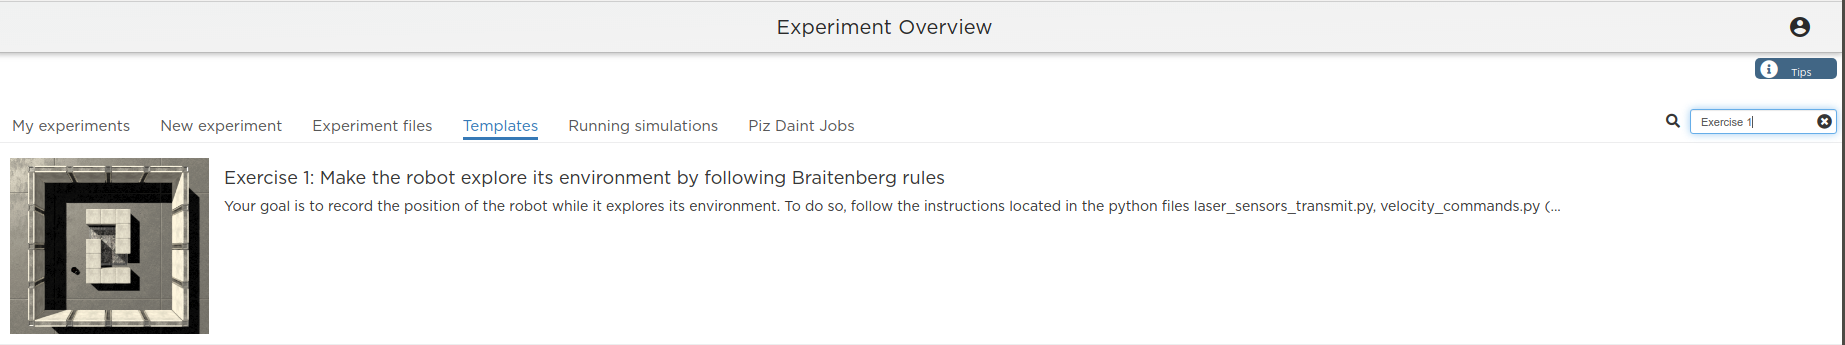
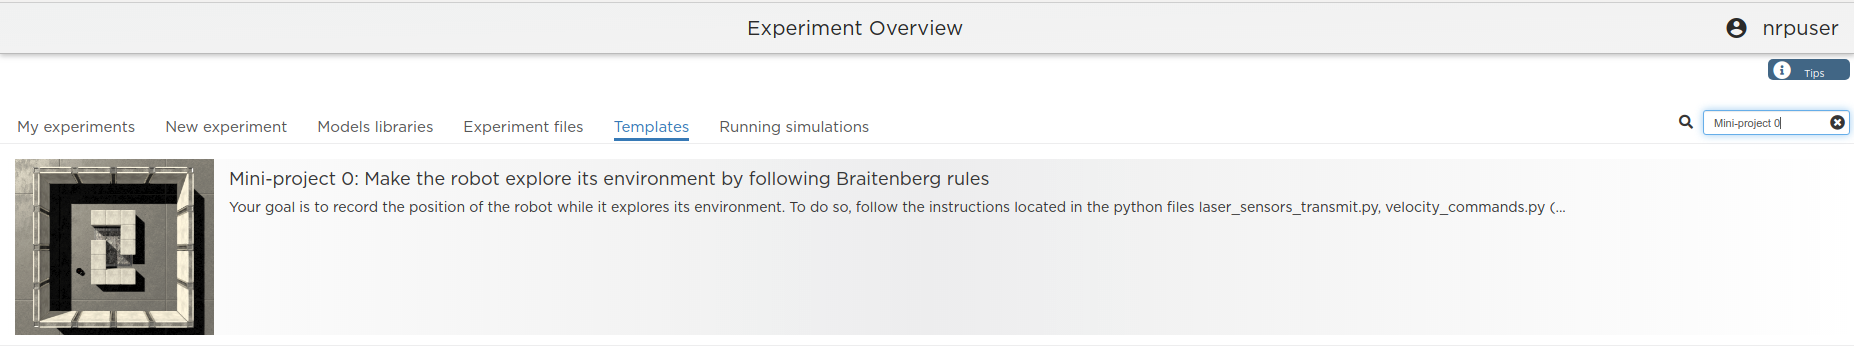
New screenshots and replacements Exercise 1 --> Miniproject 0

diff --git a/Experiments/Miniproject0/velocity_commands.py b/Experiments/Miniproject0/velocity_commands.py
@@ -9,21 +9,21 @@ Transform actor neurons activity into velocity commands
 @nrp.Neuron2Robot(Topic("/robot/cmd_vel", geometry_msgs.msg.Twist))
 def velocity_commands(t, right_actor, left_actor):
     # In abscence of activity, the vehicle is moving forward (magnitude lin_max)
-    lin_max = 0. ###_TO_DO_###
-    # factor for the transformation from actor's voltage to linear translation component
-    lin_factor = 0. ###_TO_DO_###
-    # linear translation component obtained by substrackting actors voltage
-    x_lin = max(0, lin_max - lin_factor*(right_actor.voltage + left_actor.voltage))
-    # factor for the transformation from actor's voltage to angular rotation component
-    ang_factor = 0. ###_TO_DO_###
-    # angular rotation component as the actors voltage difference
-    z_ang = ang_factor*(left_actor.voltage - right_actor.voltage)
-    # print information on the log console
+    lin_max = 0.0 ###_TO_DO_###
+    # Factor for the transformation from actor's voltage to linear translation component
+    lin_factor = 0.0 ###_TO_DO_###
+    # Linear translation component obtained by substrackting actors voltage
+    x_lin = max(0.0, lin_max - lin_factor * (right_actor.voltage + left_actor.voltage))
+    # Factor for the transformation from actor's voltage to angular rotation component
+    ang_factor = 0.0 ###_TO_DO_###
+    # Angular rotation component as the actors voltage difference
+    z_ang = ang_factor * (left_actor.voltage - right_actor.voltage)
+    # Print information on the log console
     if t % 2 < 0.02:
         clientLogger.info('[velocity_commands.py] linear x: {}, angular z: {}'.format(x_lin, z_ang))
     # build geometry messages
-    Vlin = geometry_msgs.msg.Vector3(x_lin,0,0)
-    Vang = geometry_msgs.msg.Vector3(0,0,z_ang)
+    Vlin = geometry_msgs.msg.Vector3(x_lin, 0.0, 0.0)
+    Vang = geometry_msgs.msg.Vector3(0.0, 0.0, z_ang)
     # send commands to wheels
     return geometry_msgs.msg.Twist(linear=Vlin, angular=Vang)
         

diff --git a/Experiments/Miniproject0/laser_sensors_transmit.py b/Experiments/Miniproject0/laser_sensors_transmit.py
@@ -26,7 +26,7 @@ def laser_sensors_transmit(t, right_sensor, left_sensor, laser):
     idx_middle = 180 # index separating left and right beams
     idx_left = 360 - idx_right # last left beam index
     # Sum of laser beam values 
-    # (using the mean enables to modify beam's slices without changing activation function parameterss)
+    # (using the mean enables to modify beam's slices without changing activation function parameters)
     right_signal = np.mean(laser.value.ranges[slice(idx_right, idx_middle)])
     left_signal = np.mean(laser.value.ranges[slice(idx_middle, idx_left)])
     # Activation function arguments (axes intercepts)
